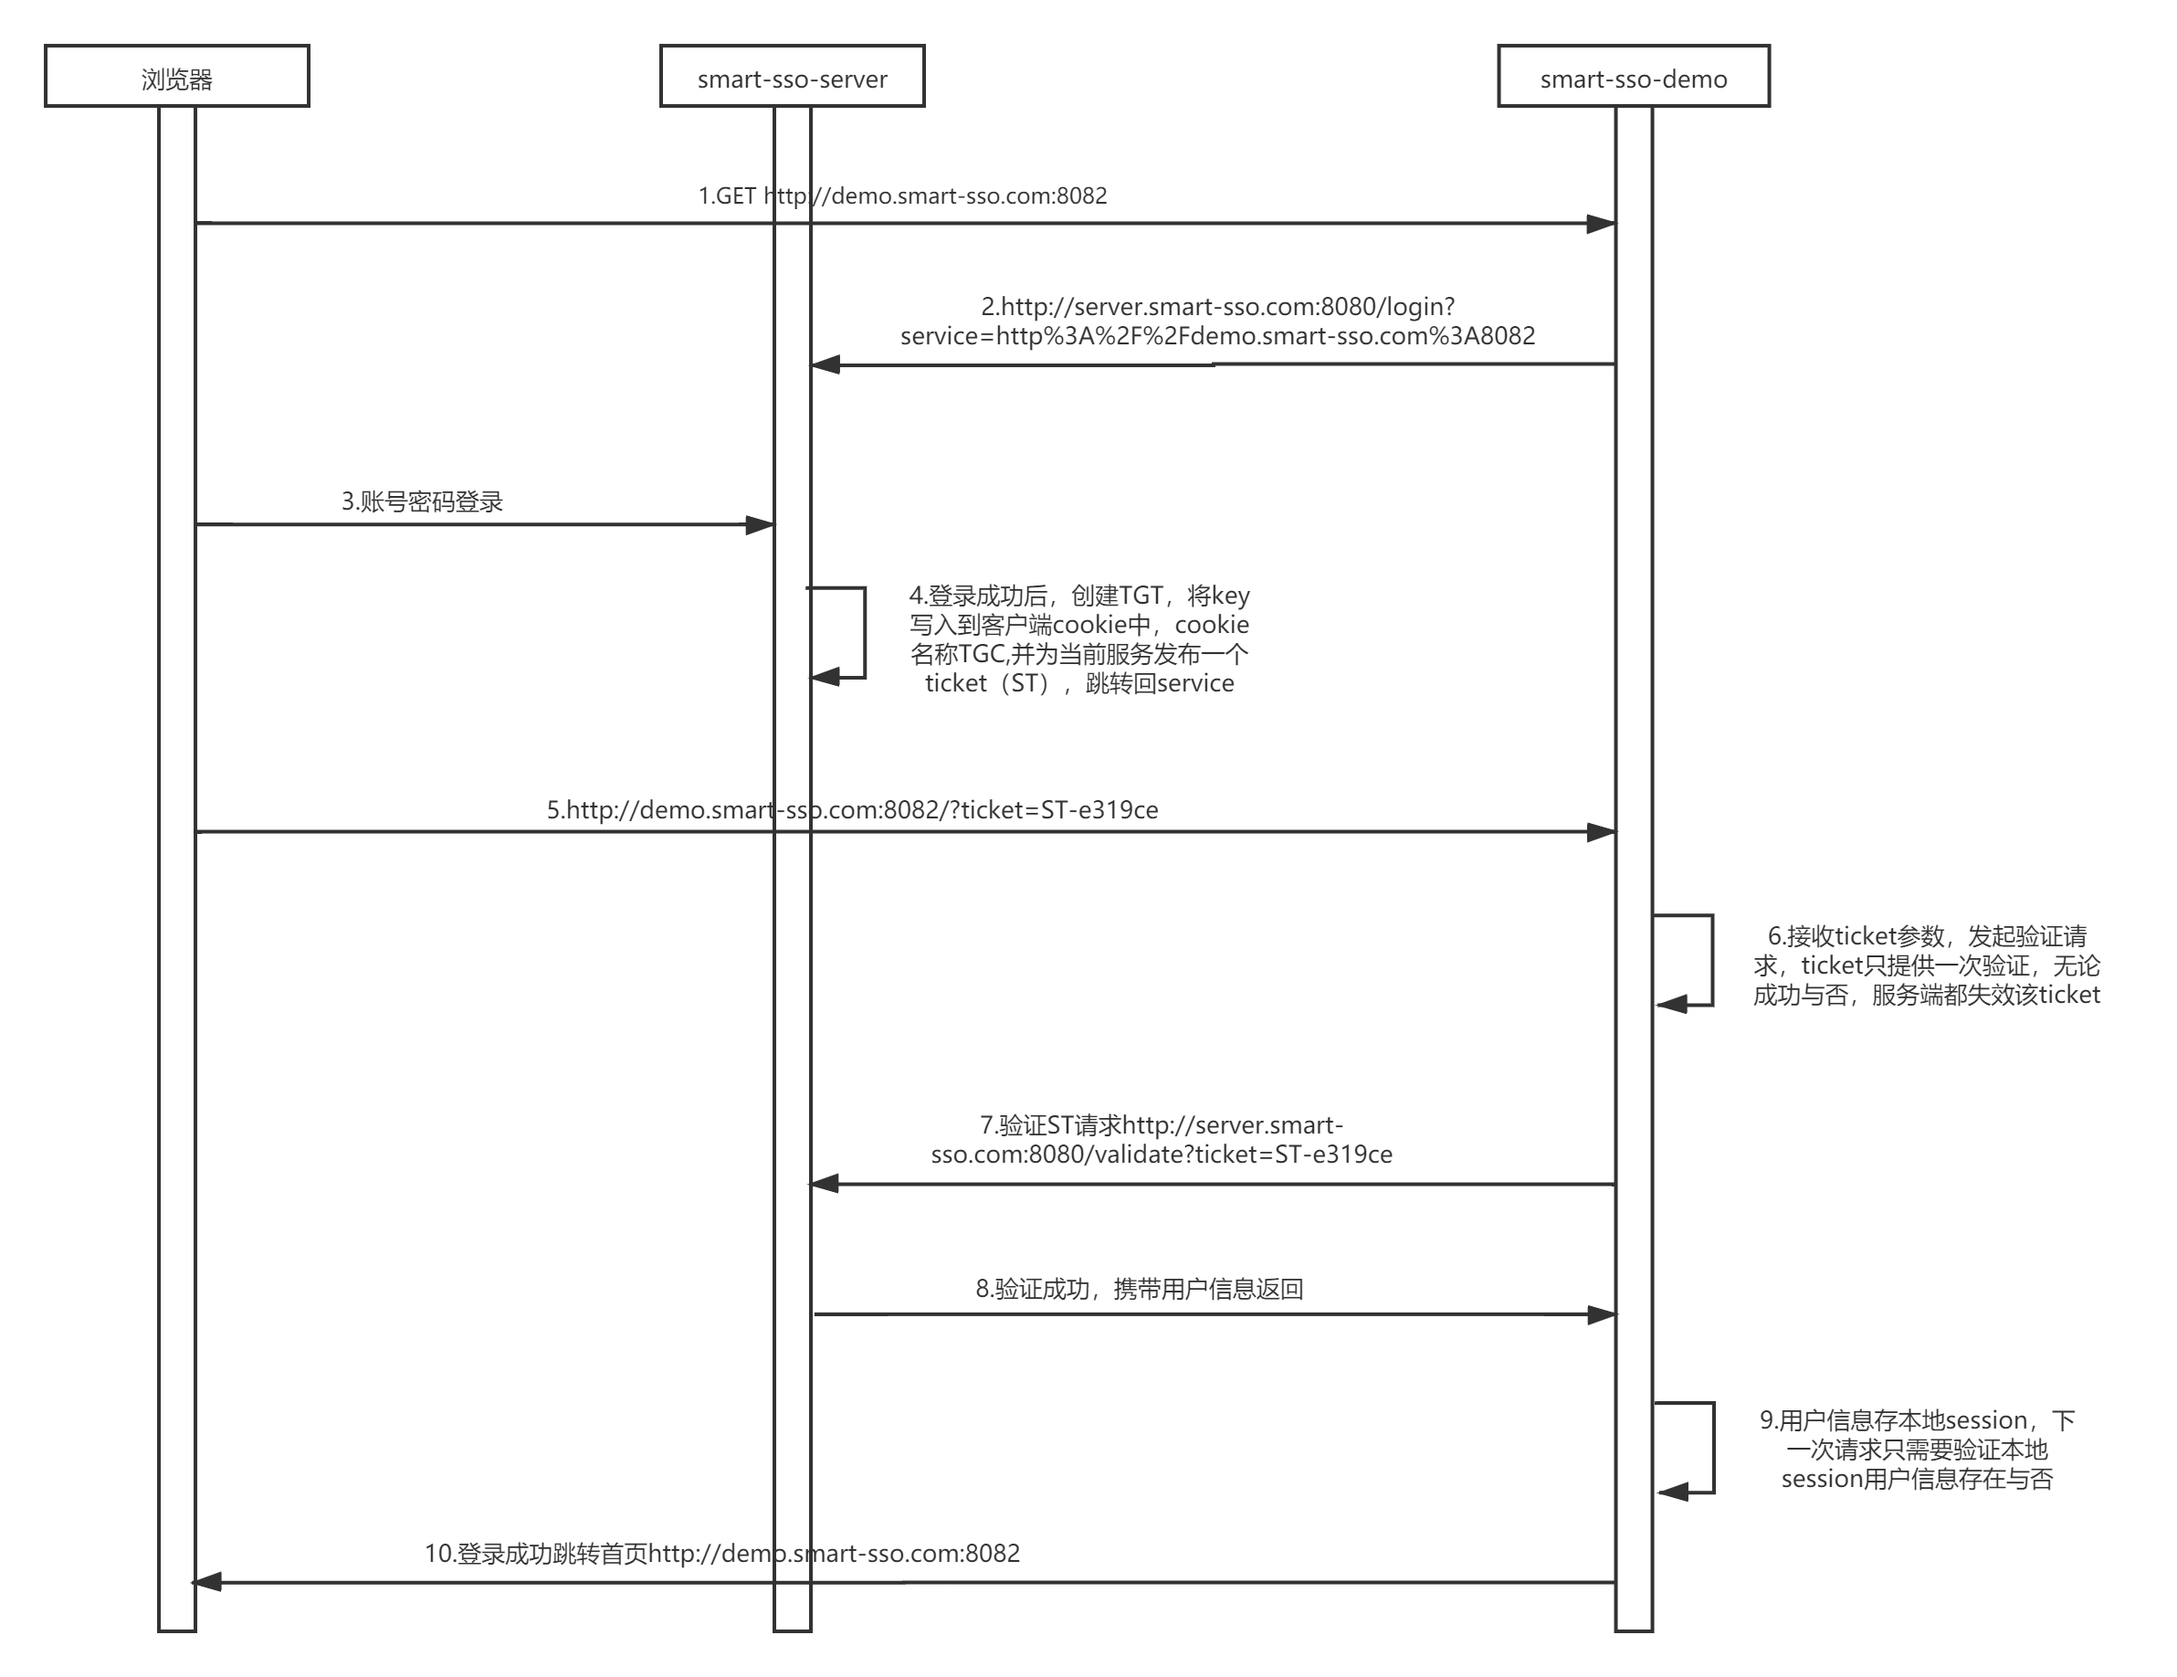
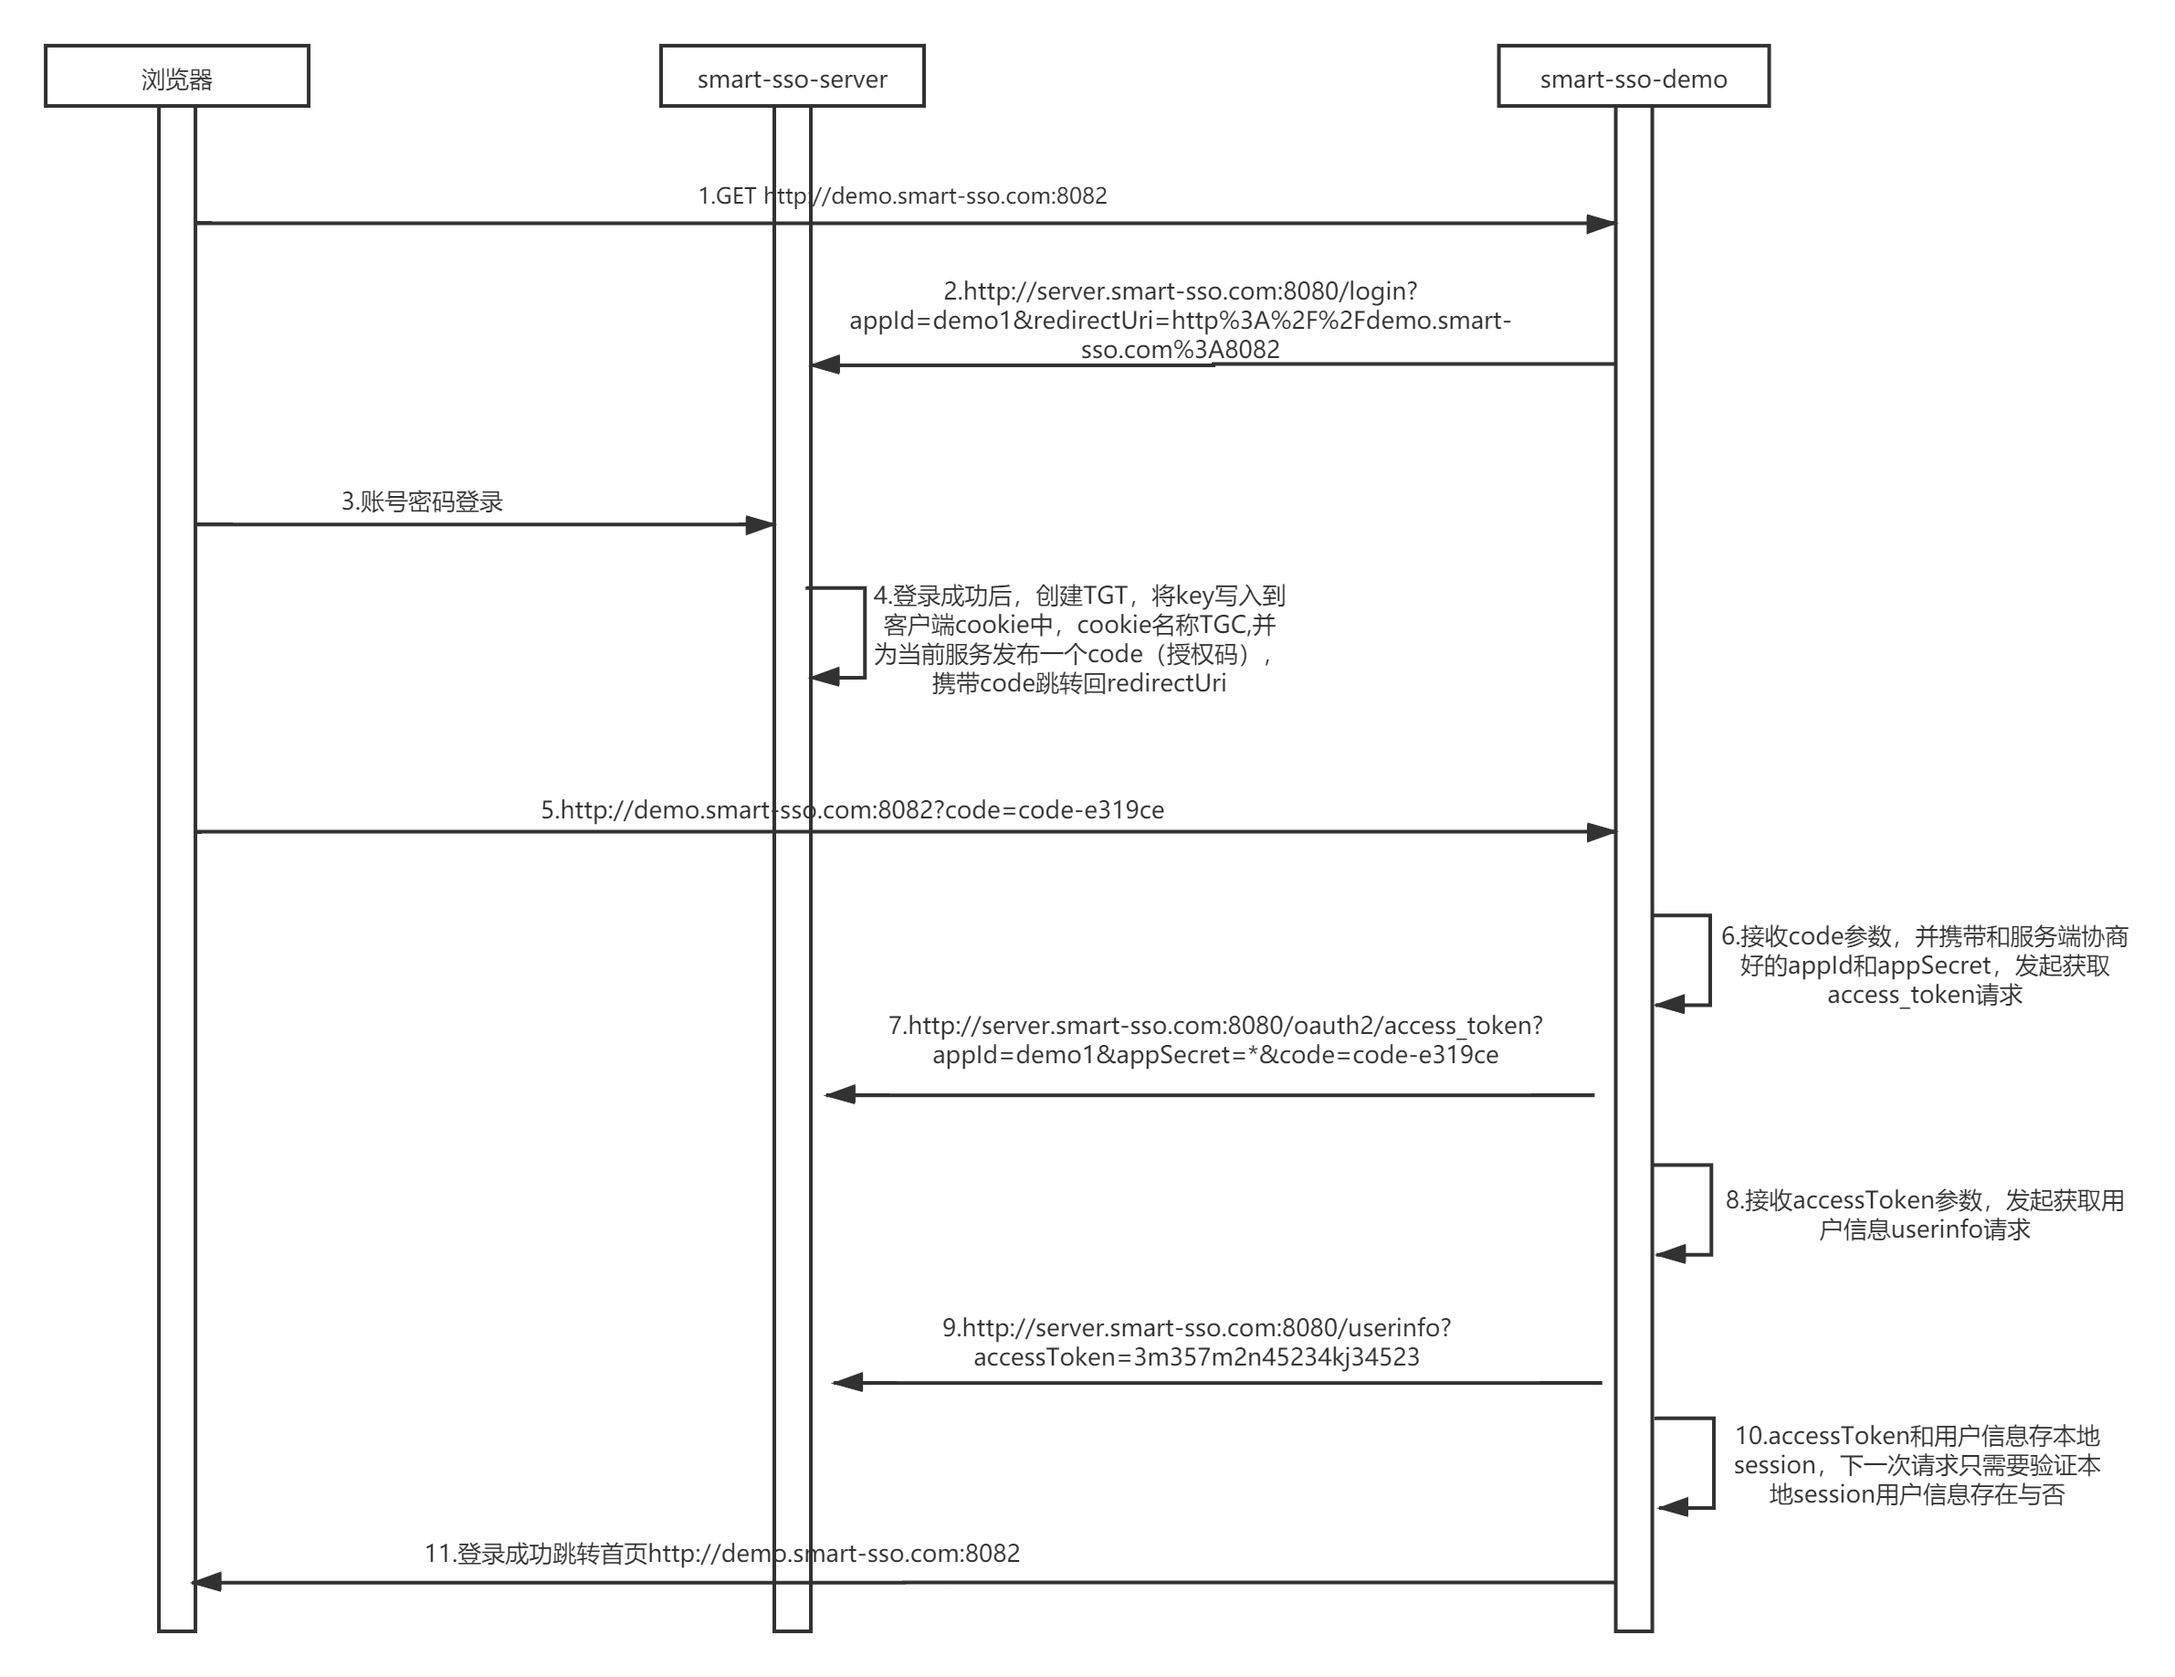
修改readme

diff --git a/README.md b/README.md
@@ -7,7 +7,7 @@
 QQ交流群：454343484🈵、769134727
 
 ## 简述
-    smart-sso使用当下最流行的SpringBoot技术，参考并简化Cas中心认证服务协议，为您构建一个易理解、高可用、高扩展性的单点登录应用基层。
+    smart-sso使用当下最流行的SpringBoot技术，基于Oauth2认证授权协议，为您构建一个易理解、高可用、高扩展性的单点登录应用基层。
  
 ## 部署文档
 - [Java单点登录系统—简介（一）](https://blog.csdn.net/a466350665/article/details/54140411)
@@ -28,13 +28,14 @@ smart-sso
 - MVC框架：SpringBoot 2.1.0.RELEASE
 - JSON工具：Fastjson 1.2.69
 - 日志管理：SLF4J 1.7.21
-- 单点登录：极简参考Cas协议实现
+- 单点登录：基于Oauth2协议实现
 
 ## 单点登录原理
-![在这里插入图片描述](https://img-blog.csdnimg.cn/20201015165855788.png?x-oss-process=image/watermark,type_ZmFuZ3poZW5naGVpdGk,shadow_10,text_aHR0cHM6Ly9ibG9nLmNzZG4ubmV0L2E0NjYzNTA2NjU=,size_16,color_FFFFFF,t_70#pic_center)
+![在这里插入图片描述](https://img-blog.csdnimg.cn/20201030135621138.png?x-oss-process=image/watermark,type_ZmFuZ3poZW5naGVpdGk,shadow_10,text_aHR0cHM6Ly9ibG9nLmNzZG4ubmV0L2E0NjYzNTA2NjU=,size_16,color_FFFFFF,t_70#pic_center)
+
 
 ## 单点退出原理
-![在这里插入图片描述](https://img-blog.csdnimg.cn/20201015173104361.png?x-oss-process=image/watermark,type_ZmFuZ3poZW5naGVpdGk,shadow_10,text_aHR0cHM6Ly9ibG9nLmNzZG4ubmV0L2E0NjYzNTA2NjU=,size_16,color_FFFFFF,t_70#pic_center)
+![在这里插入图片描述](https://img-blog.csdnimg.cn/20201030135632203.png?x-oss-process=image/watermark,type_ZmFuZ3poZW5naGVpdGk,shadow_10,text_aHR0cHM6Ly9ibG9nLmNzZG4ubmV0L2E0NjYzNTA2NjU=,size_16,color_FFFFFF,t_70#pic_center)
 
 
 ## 效果展示
